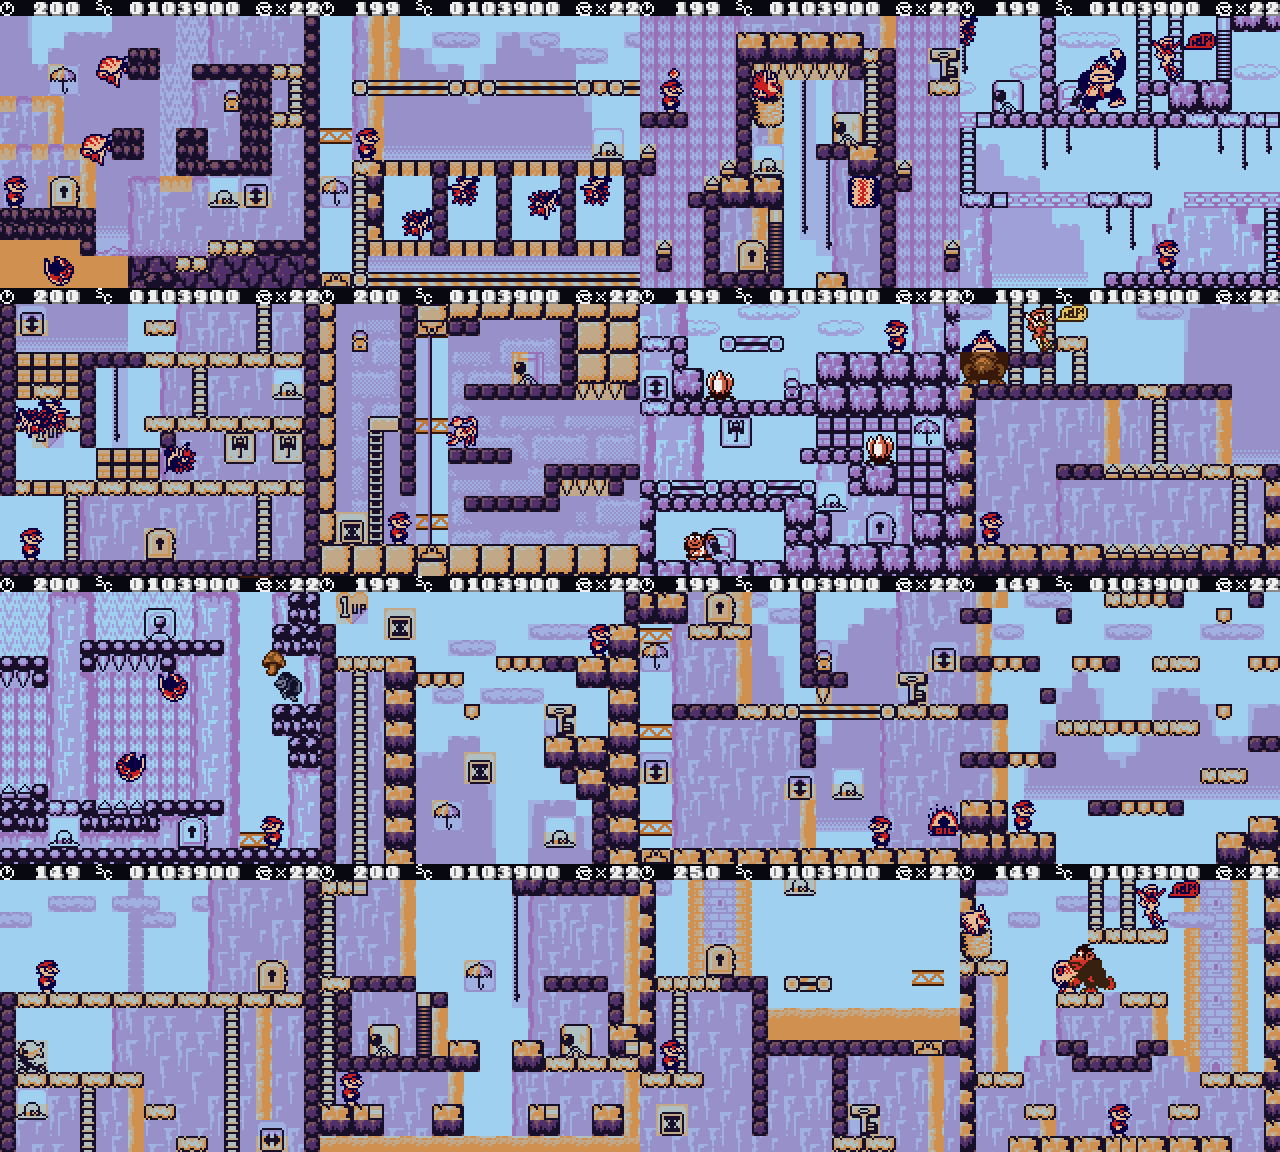
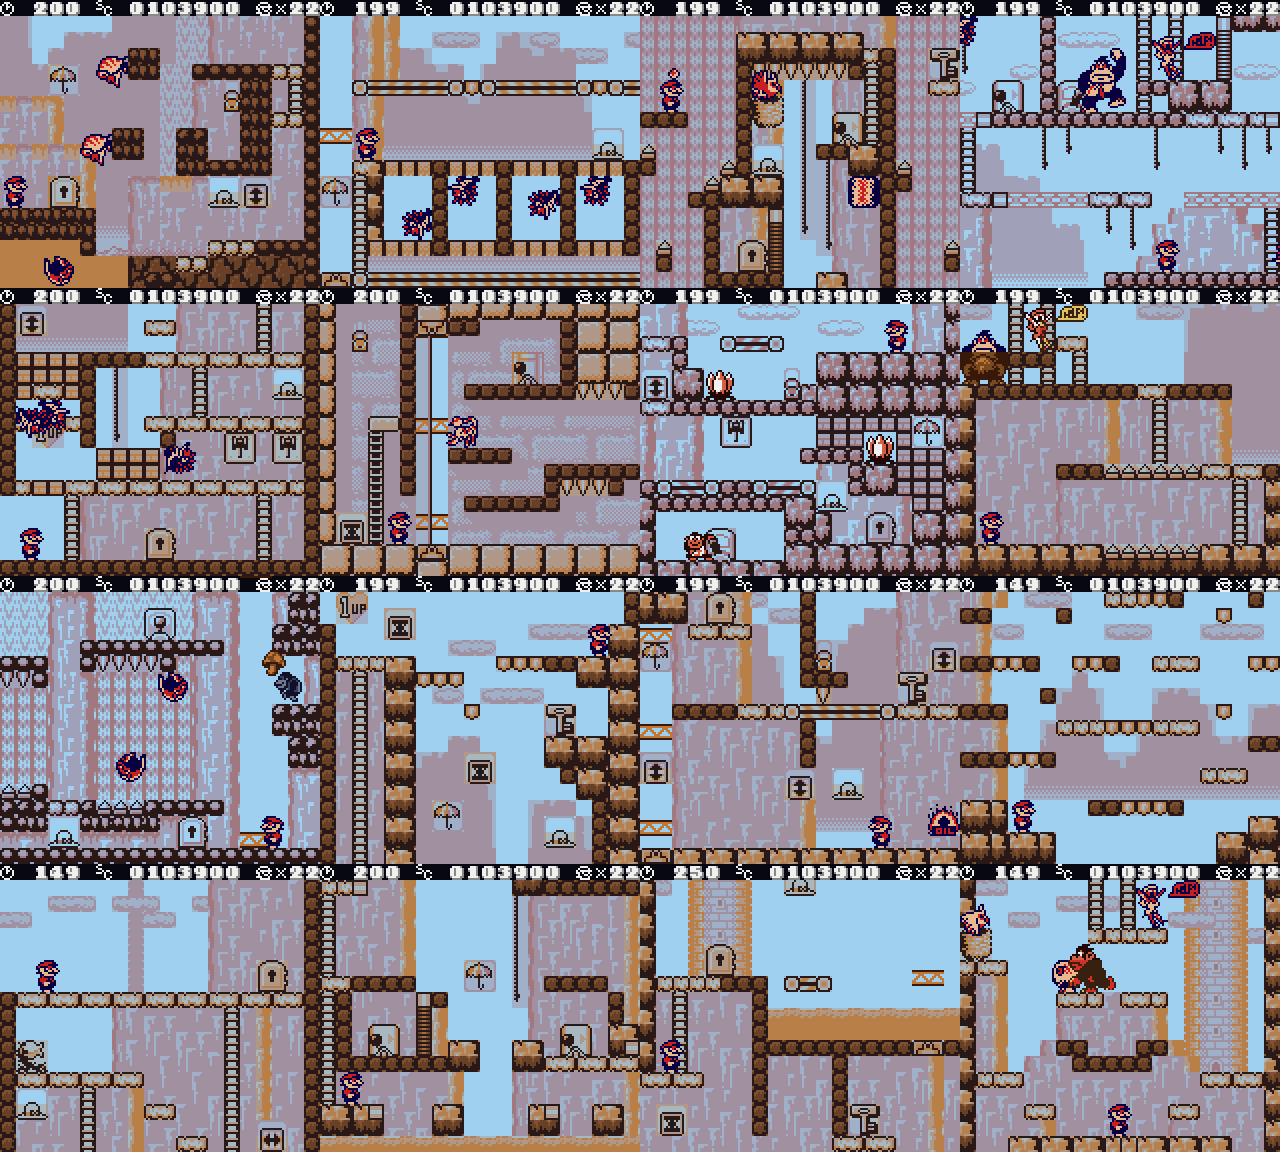
Rocky-Valley: brown rocks, mauve cliffs, blue sky; refresh screenshot

diff --git a/donkey-kong/tools/themes.py b/donkey-kong/tools/themes.py
@@ -8,7 +8,7 @@ W={ # name, sky, decor, structure, dense, ink
  5:('Desert',(250,236,190),(236,200,120),(204,142,82),(112,72,42),(44,28,20)),
  6:('Airplane',(190,214,248),(232,242,252),(130,152,192),(62,82,122),(26,32,56)),
  7:('Iceberg',(212,238,252),(170,214,240),(120,170,214),(60,100,152),(24,36,66)),
- 8:('Rocky-Valley',(168,212,248),(156,118,190),(214,150,84),(86,50,110),(28,16,44)),
+ 8:('Rocky-Valley',(168,212,248),(168,122,128),(190,132,76),(104,64,40),(38,22,28)),
  9:('Tower',(214,224,238),(170,182,204),(128,140,168),(60,68,92),(26,30,46)),
 }
 def mix(a,b,t): return tuple(a[i]*(1-t)+b[i]*t for i in range(3))

diff --git a/donkey-kong/README.md b/donkey-kong/README.md
@@ -19,7 +19,7 @@ plain DMG or a real SGB the game's original code path still runs.
 * Apply to **your own** copy of the original ROM
   (SHA-1 `6ed661bd1d6d8cdd48e1c10f8ca4e8dcba49128e`, 512 KB, *Donkey Kong (Japan, USA) (En) (SGB Enhanced)*).
 * `python3 apply_patch.py original.gb dk-color.ips dk-color.gb` (or any IPS patcher, e.g. Flips).
-  The patched ROM has SHA-1 `fd2f5de94e7c05fb7da2721ab4b460786171d17c`.
+  The patched ROM has SHA-1 `2369de6b4fc937f1f5120b1bbdce566b04700e5f`.
 * Run it in a CGB-capable emulator (SameBoy, mGBA, BGB, Gambatte) or on a Game Boy Color.
 * **No ROM is included in this repository.** Only the patch (my own code and colour data) and the build sources.
 
